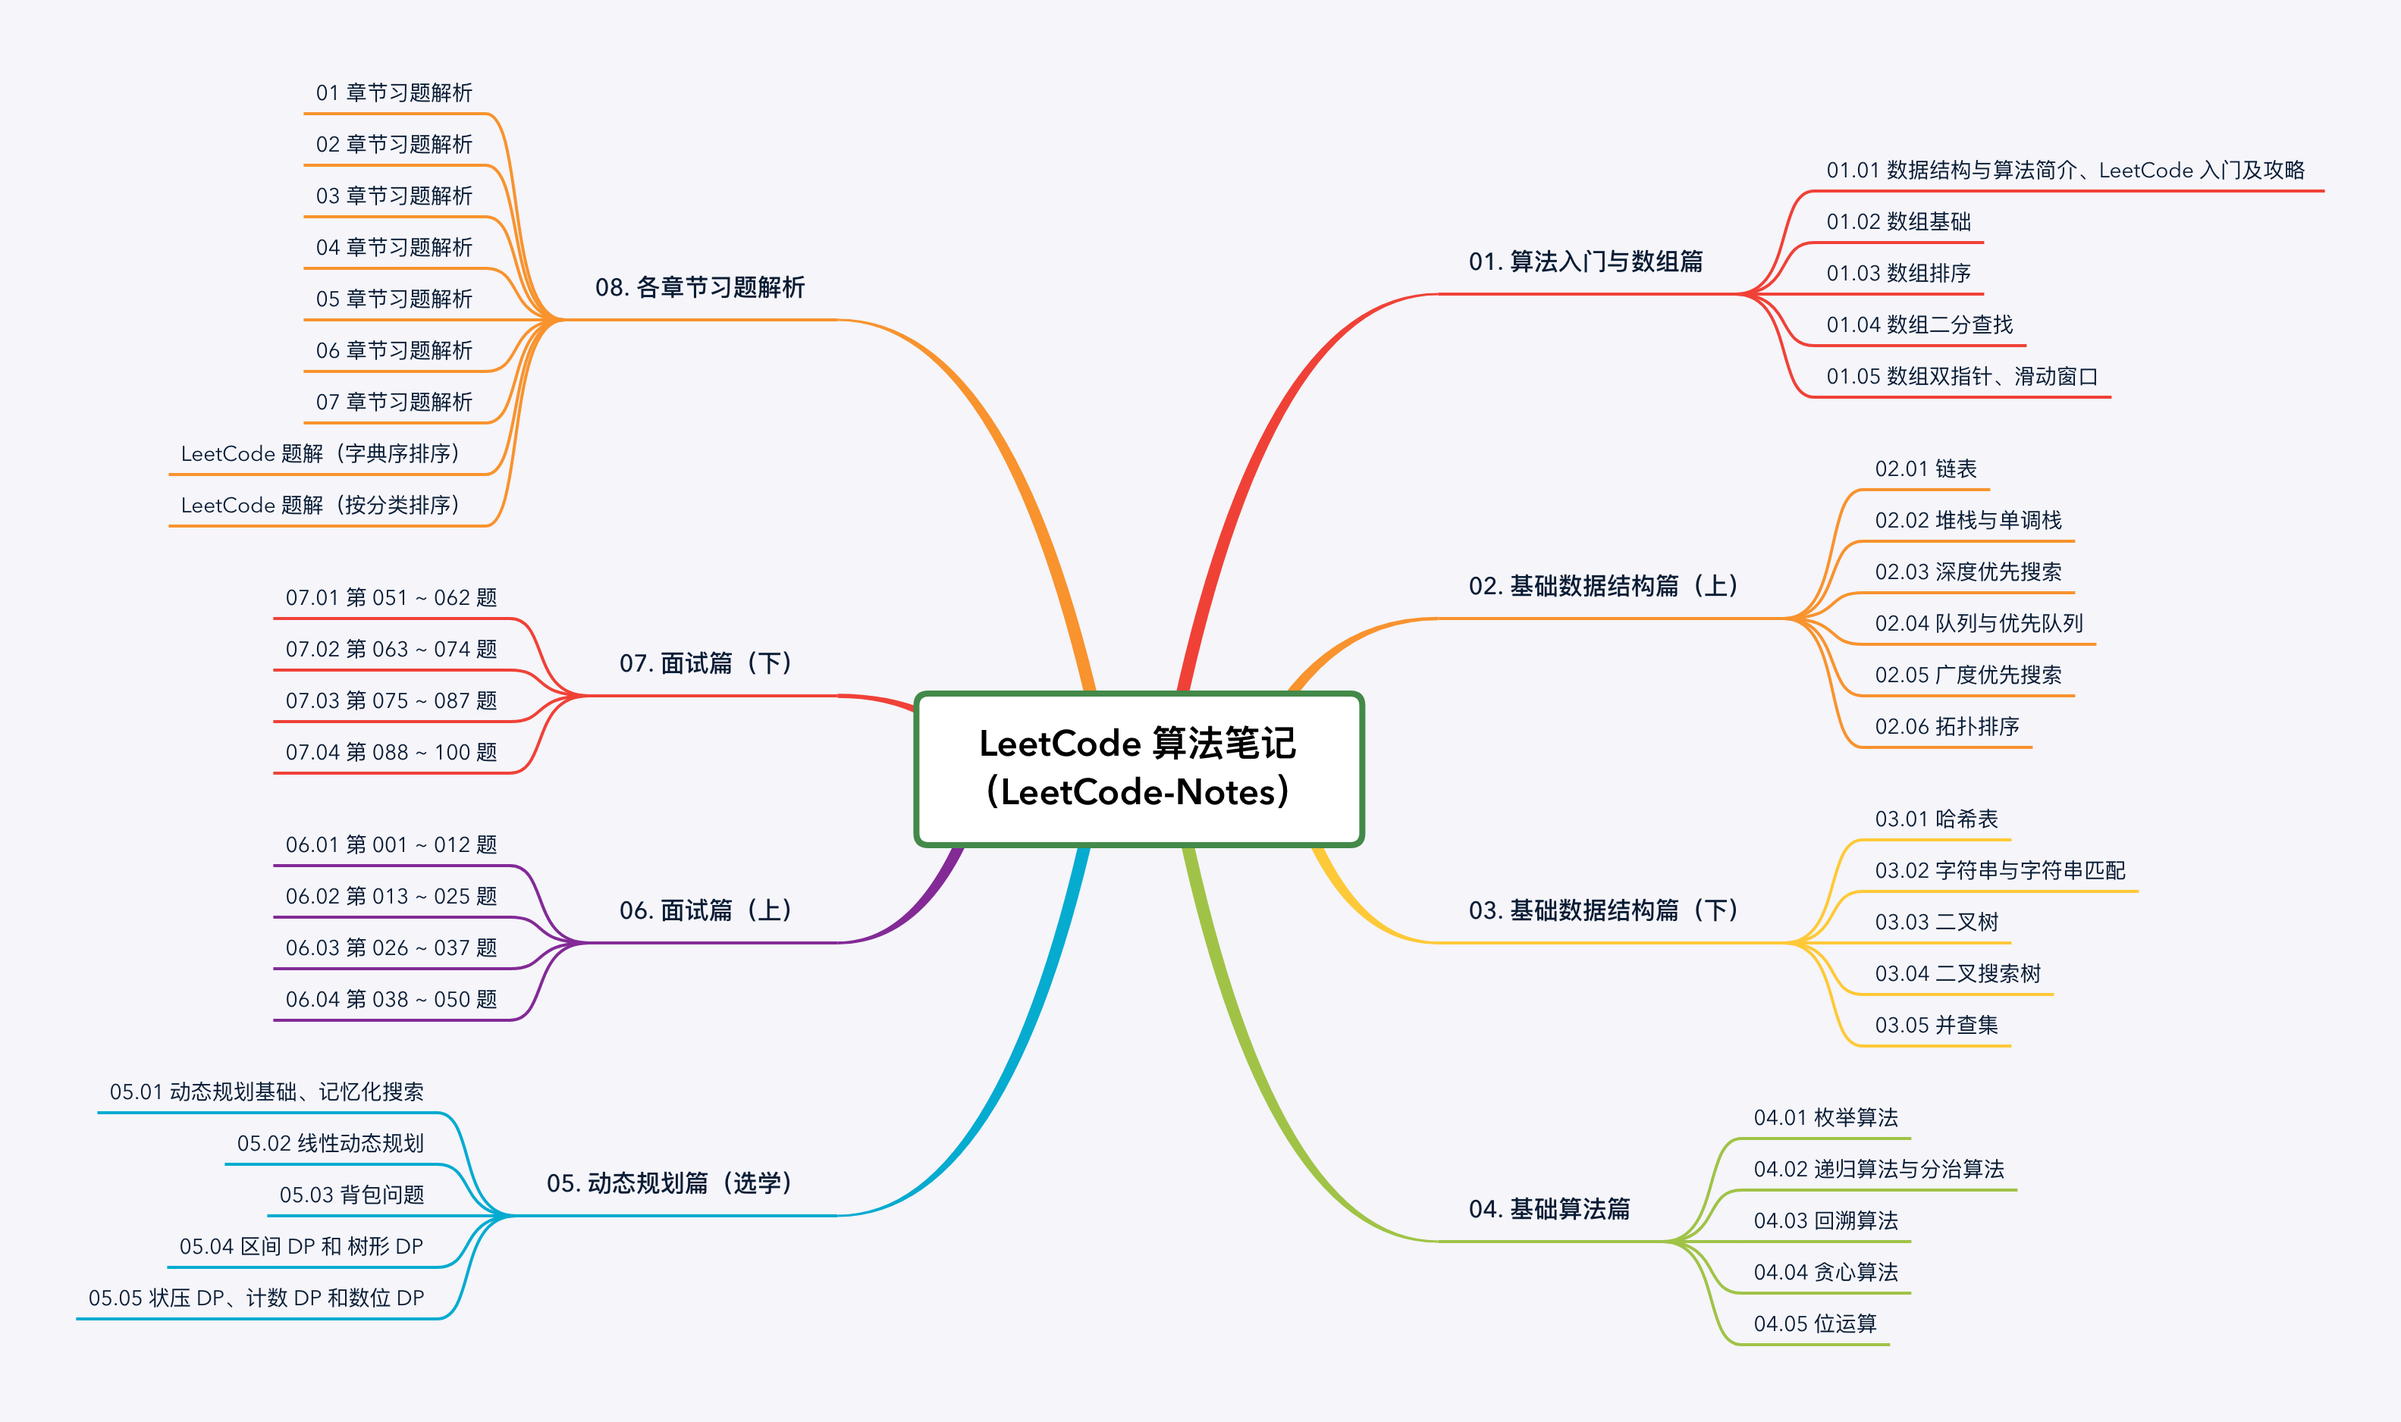
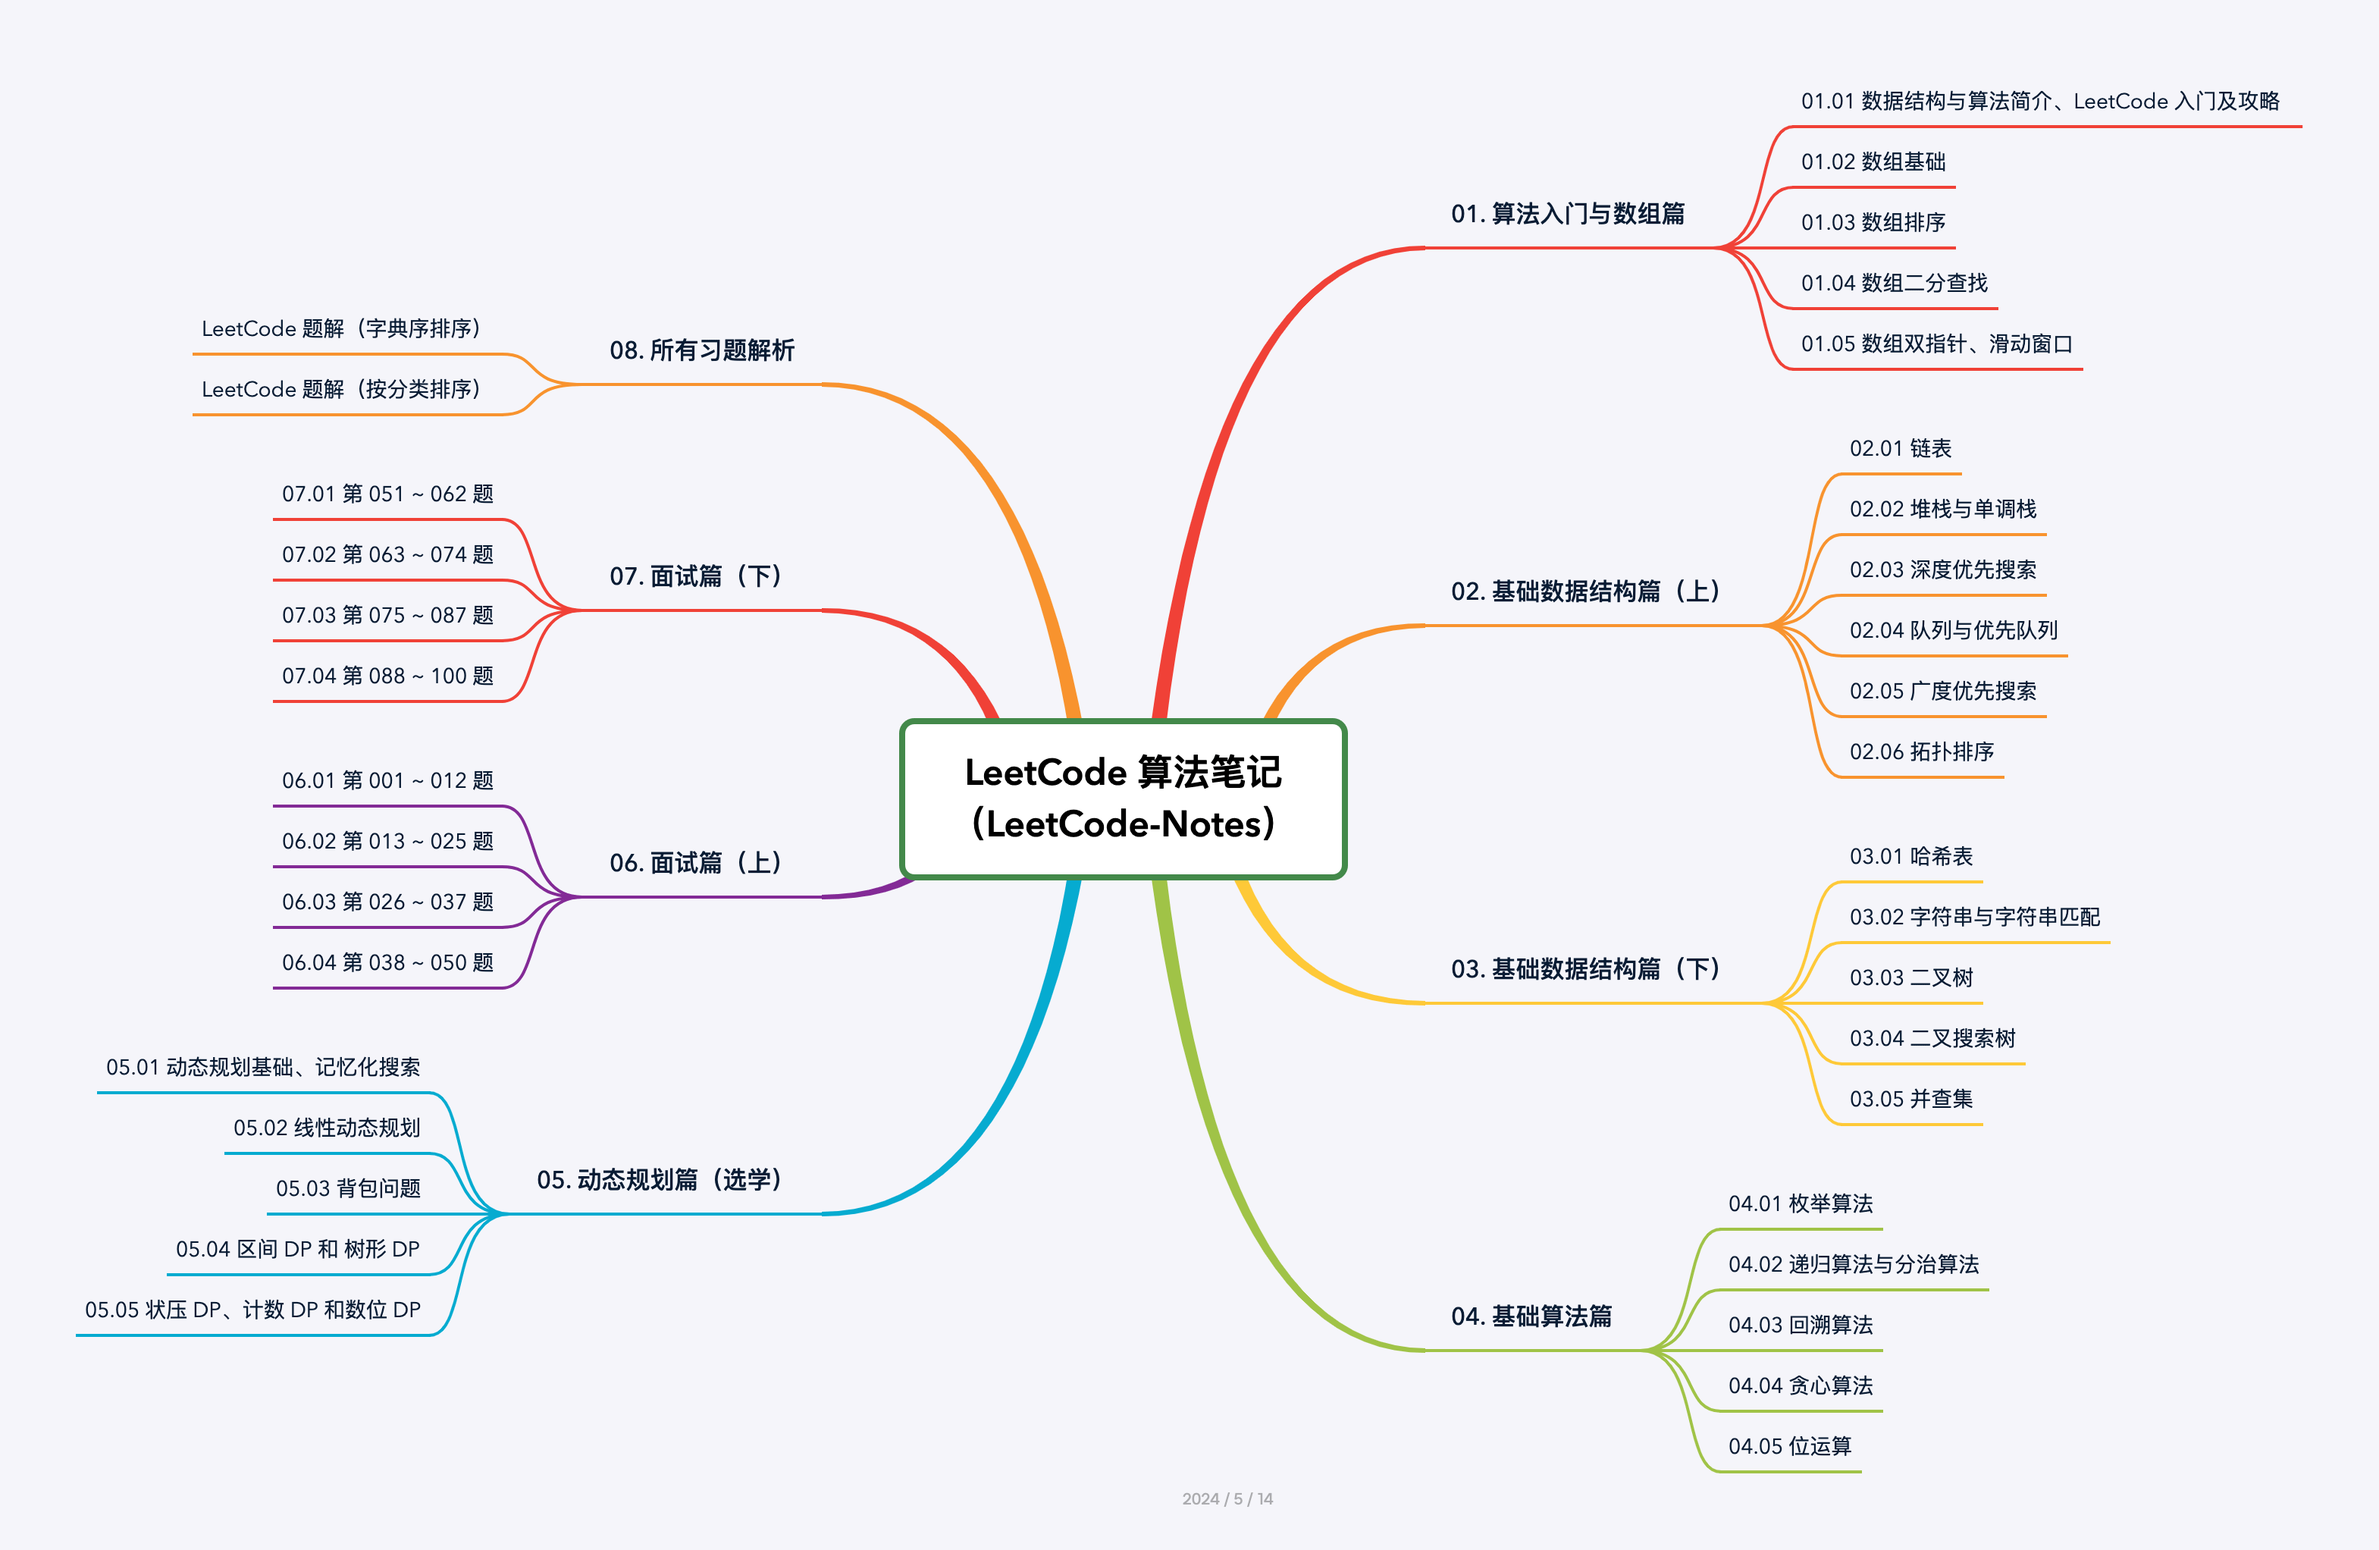
更新项目说明

diff --git a/README.md b/README.md
@@ -23,7 +23,7 @@
 
 ### 4.1 章节划分
 
-1. 项目总共 8 个章节，其中第 01 ~ 05 章节为「算法与数据结构知识」，第 06 ~ 07 章节为「100 道高频面试题汇总」，第 08 章节为「各章节习题解析」。
+1. 项目总共 8 个章节，其中第 01 ~ 05 章节为「算法与数据结构知识」，第 06 ~ 07 章节为「100 道高频面试题汇总」，第 08 章节为「所有习题解析」。
 2. 项目中 的第 01 ~ 07 章节，每一章节对应「一个学习周期 / 一期组队学习安排」，对应学习时间为 14 ～ 16 天，每个学习周期 / 每期组队学习对应 42 ～ 50 道经典 LeetCode 题目。
 3. 章节中每一小节对应「一个学习专题 / 一次打卡任务」，对应时间为 1 ～ 5 天。
 4. 小节中每天都有对应的「学习内容」和「练习题目（每天 3 道）」。

diff --git a/docs/README.md b/docs/README.md
@@ -27,7 +27,7 @@
 
 ### 4.1 章节划分
 
-1. 项目总共 8 个章节，其中第 01 ~ 05 章节为「算法与数据结构知识」，第 06 ~ 07 章节为「100 道高频面试题汇总」，第 08 章节为「各章节习题解析」。
+1. 项目总共 8 个章节，其中第 01 ~ 05 章节为「算法与数据结构知识」，第 06 ~ 07 章节为「100 道高频面试题汇总」，第 08 章节为「所有习题解析」。
 2. 项目中 的第 01 ~ 07 章节，每一章节对应「一个学习周期 / 一期组队学习安排」，对应学习时间为 14 ～ 16 天，每个学习周期 / 每期组队学习对应 42 ～ 50 道经典 LeetCode 题目。
 3. 章节中每一小节对应「一个学习专题 / 一次打卡任务」，对应时间为 1 ～ 5 天。
 4. 小节中每天都有对应的「学习内容」和「练习题目（每天 3 道）」。
